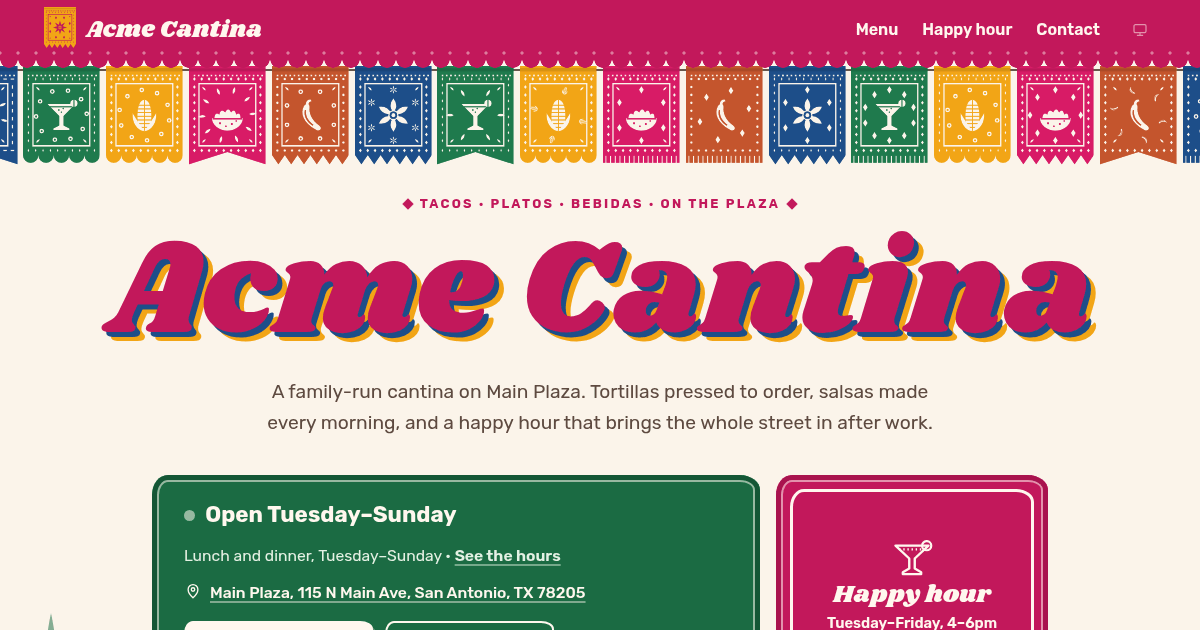
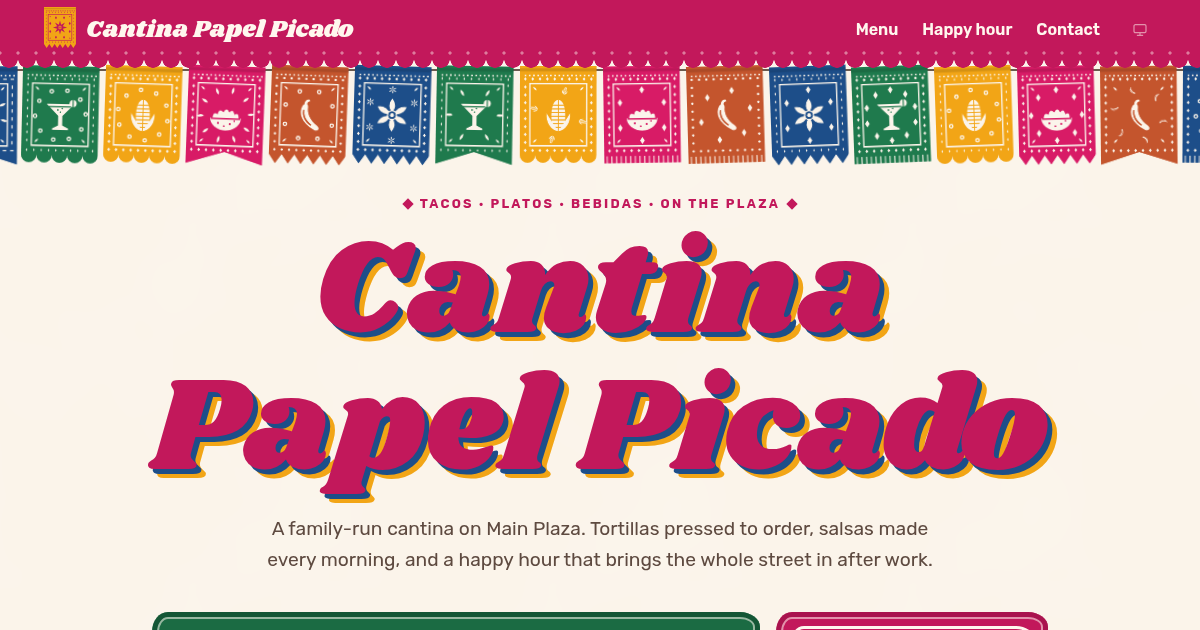
Update design + rebrand

diff --git a/lib/site.ts b/lib/site.ts
@@ -1,7 +1,7 @@
 // Public values resolved by lib/config.mjs and substituted by Next.js at build time.
 // No runtime configuration API is needed to render the website.
 export const site = {
-  name: process.env.NEXT_PUBLIC_SITE_NAME ?? 'Acme Cantina',
+  name: process.env.NEXT_PUBLIC_SITE_NAME ?? 'Cantina Papel Picado',
   description: process.env.NEXT_PUBLIC_SITE_DESCRIPTION ?? '',
   domain: process.env.NEXT_PUBLIC_SITE_DOMAIN ?? '',
   /** IANA time zone for opening hours (site.config.json `timeZone`), or '' when not set. */

diff --git a/content/cantina.ts b/content/cantina.ts
@@ -96,7 +96,7 @@ const lunch = { label: 'Lunch', opens: '11:00', closes: '15:00' } as const;
 const dinner = { label: 'Dinner', opens: '16:00', closes: '22:00' } as const;
 
 export const cantina: Cantina = {
-  name: 'Acme Cantina',
+  name: 'Cantina Papel Picado',
   tagline: 'Tacos · platos · bebidas · on the plaza',
   introduction:
     'A family-run cantina on Main Plaza. Tortillas pressed to order, salsas made every morning, and a happy hour that brings the whole street in after work.',

diff --git a/app/tailwind.input.css b/app/tailwind.input.css
@@ -1,4 +1,4 @@
-/* Acme Cantina styles: Tailwind CSS v4 plus this template's customizations.
+/* Cantina Papel Picado styles: Tailwind CSS v4 plus this template's customizations.
    Components use Tailwind utility classes; this file holds what utilities can't:
    1. colour tokens for light/dark   2. the Tailwind theme built from them (and the band-* utilities)
    3. base element styles           4. shared building blocks (.button, .plaque, .menu-row, ...)

diff --git a/README.md b/README.md
@@ -4,7 +4,7 @@ A festive, colour-drenched theme for Mexican restaurants and cantinas: a painted
 
 It exports to plain static files, deploys to GitHub Pages (custom domain or `/repository/` path) and works with no backend. The look is *rótulos*, the hand-painted signage of Mexican streets: full-bleed bands of rosa mexicano, verde, añil blue, marigold and terracotta, big sign-painter lettering, and papel picado strung across the page. Light mode is "painted walls at noon" on lime-wash white. Dark mode is "the plaza after dark": night indigo, deepened bands, string lights and flags lit from behind. Both follow the visitor's device unless they pick one with the header toggle.
 
-**Acme Cantina**, its menu, prices, specials, story and contact details are fictitious placeholders. The sample address is a public landmark, Main Plaza in downtown San Antonio (115 N Main Ave, San Antonio, TX 78205), so the map has something real to show. Replace all of them with your own.
+**Cantina Papel Picado**, its menu, prices, specials, story and contact details are fictitious placeholders. The sample address is a public landmark, Main Plaza in downtown San Antonio (115 N Main Ave, San Antonio, TX 78205), so the map has something real to show. Replace all of them with your own.
 
 ## Pages
 
@@ -115,7 +115,7 @@ The footer ends with "with ❤ [jamstacks.net](https://jamstacks.net)". It's 
 
 ```json
 {
-  "name": "Acme Cantina",
+  "name": "Cantina Papel Picado",
   "description": "A family-run Mexican cantina on Main Plaza: tacos, platos and bebidas, a daily special, happy hour, opening hours and how to find us.",
   "domain": "next-mexican-cantina.jamstacks.net",
   "timeZone": "America/Chicago",
@@ -228,7 +228,7 @@ jamstacks/               optional template publishing metadata and gallery captu
 
 ## Before publishing your website
 
-- Replace Acme Cantina, the address (and its `note`), directions, email, phone, menu, prices, specials, happy hour, story, FAQs and social links with your own details.
+- Replace Cantina Papel Picado, the address (and its `note`), directions, email, phone, menu, prices, specials, happy hour, story, FAQs and social links with your own details.
 - Set your real services and `timeZone` in `site.config.json`. Check the status, happy-hour sign and today's special on the home page at a few times of day.
 - Choose your 4–6 featured dishes and drinks, and check every item's heat and diet tags (especially nuts and gluten).
 - Replace `domain` in `site.config.json` with your own domain (or `""`). Update the site title/description, icon and social preview image.

diff --git a/PLAN.md b/PLAN.md
@@ -20,7 +20,7 @@ publishing the template.
 | Template ID | `next-mexican-cantina` (`tech` next, `type` mexican, `style` cantina) |
 | Gallery name | Mexican cantina |
 | Gallery description | A festive, colour-drenched theme for Mexican restaurants and cantinas: a painted menu of tacos, platos and bebidas with heat levels, papel-picado section banners, daily specials, a happy hour that lights up when it's on, opening hours, location and a Jamstacks contact component for group tables, celebrations and catering. |
-| Sample business | **Acme Cantina**, a fictitious family-run Mexican restaurant and bar with walk-ins, a happy hour and group tables |
+| Sample business | **Cantina Papel Picado**, a fictitious family-run Mexican restaurant and bar with walk-ins, a happy hour and group tables |
 | Sample address | Main Plaza, 115 N Main Ave, San Antonio, TX 78205 (a public landmark, so the map has something real to show) |
 | Time zone | `America/Chicago` |
 | What visitors want first | Are you open, is it happy hour, and what's on the menu? |
@@ -223,7 +223,7 @@ Create a new Jamstacks website template **`next-mexican-cantina`** in
 **cantina** style. Make it visually stunning and as close as possible to what a real mexican
 owner wants out of the box. Think hand-painted cantina signage: full-bleed bands of saturated painted colour like a lime-washed façade, papel-picado banners strung across the page, and big sign-painter lettering. Daylight on painted walls in light mode, a plaza under string lights in dark mode. The layout is bands and painted boards, not cards.
 
-The sample business is **Acme Cantina**. Its core editable content is: a menu of antojitos, tacos, platos fuertes, postres and bebidas (Spanish name, English description, price, heat level, dietary tags, sold-out flag), a salsa bar, daily specials, happy hour times and deals, and lunch and dinner services.
+The sample business is **Cantina Papel Picado**. Its core editable content is: a menu of antojitos, tacos, platos fuertes, postres and bebidas (Spanish name, English description, price, heat level, dietary tags, sold-out flag), a salsa bar, daily specials, happy hour times and deals, and lunch and dinner services.
 
 ### Working rules
 

diff --git a/AGENTS.md b/AGENTS.md
@@ -7,7 +7,7 @@ setup, content editing, deployment and the optional Jamstacks contact form.
 
 - Work in this repository on its current branch unless asked otherwise.
 - Preserve existing changes. Leave edits uncommitted; push or deploy only when requested.
-- Adapt the website to its owner's requested content and features. Replace the sample cantina (Acme Cantina),
+- Adapt the website to its owner's requested content and features. Replace the sample cantina (Cantina Papel Picado),
   menu, prices, specials, happy hour, address, hours and contact details with the owner's real details; the
   fictional examples are starting content.
 
